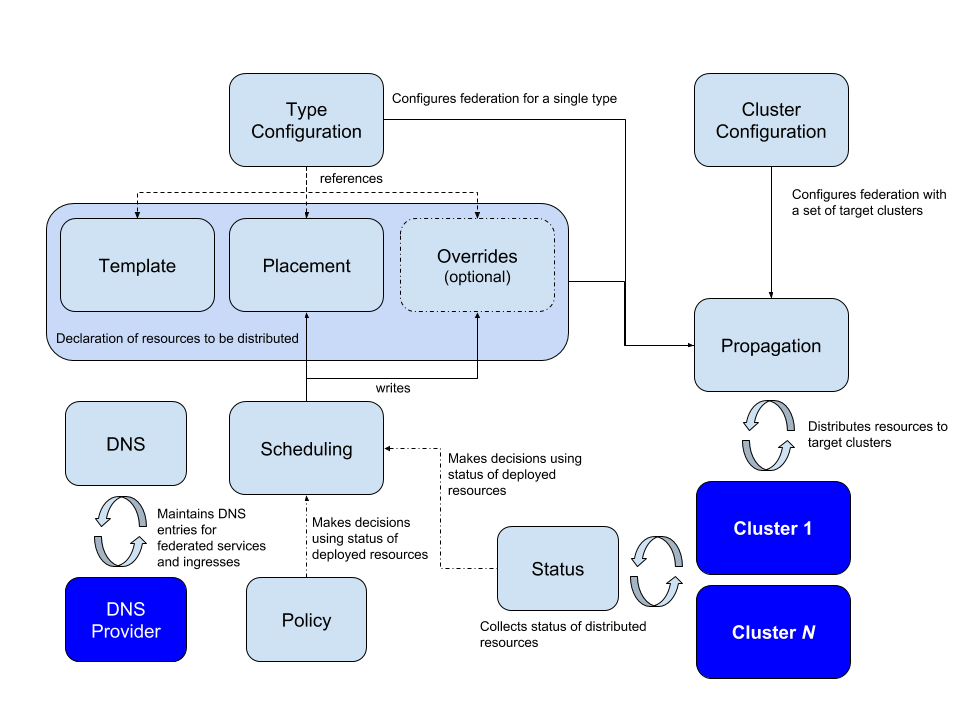
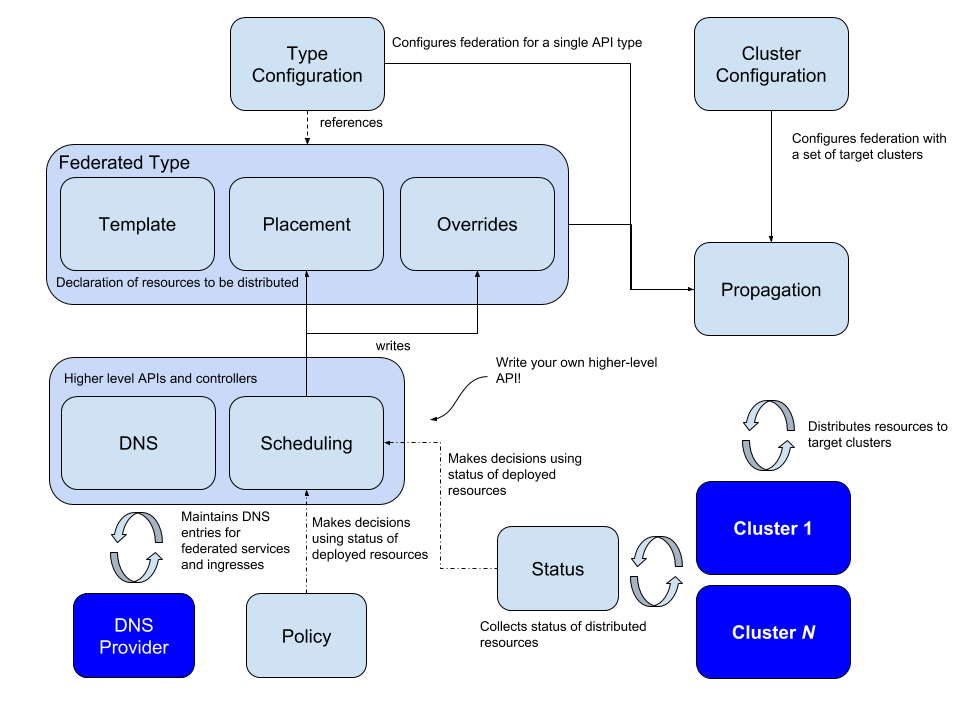
Update diagrams after API unification

diff --git a/README.md b/README.md
@@ -29,9 +29,9 @@ clusters.
 
 Type configuration has three fundamental concepts:
 
-- **Template types** define the representation of a resource common across clusters
-- **Placement types** define which clusters the resource is intended to appear in
-- **Override types** optionally define per-cluster field-level variation to apply to the template
+- **Templates** define the representation of a resource common across clusters
+- **Placement** defines which clusters the resource is intended to appear in
+- **Overrides** define per-cluster field-level variation to apply to the template
 
 These three abstractions provide a concise representation of a resource intended
 to appear in multiple clusters. They encode the minimum information required for
